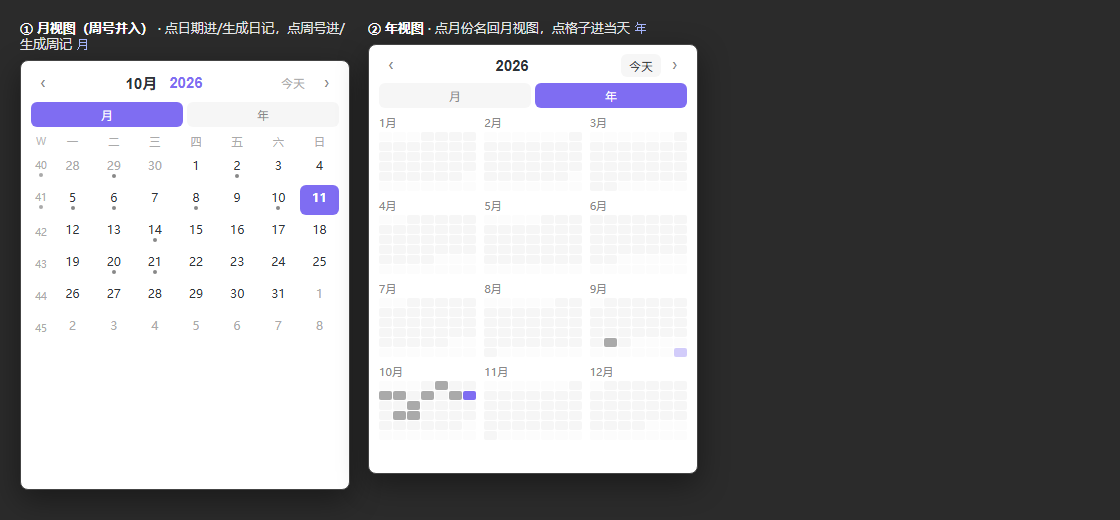
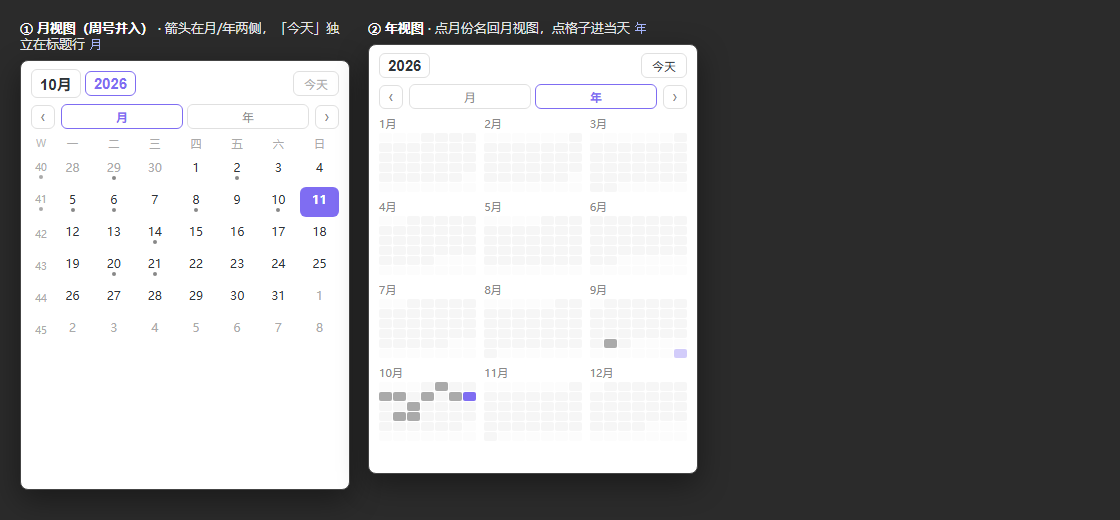
Simple Calendar v1.2.0: 箭头移到月/年两侧、「今天」独立在标题行、按钮统一只留边框不要底色

diff --git a/styles.css b/styles.css
@@ -1,5 +1,6 @@
 /* Simple Calendar — 轻量日历样式
-   全部使用 Obsidian 主题变量，自动适配亮/暗主题 */
+   全部使用 Obsidian 主题变量，自动适配亮/暗主题
+   按钮统一"只留边框、不要底色"；当前项用边框色与文字色区分 */
 
 .simple-calendar-container {
   padding: 0;
@@ -19,10 +20,47 @@
   margin-bottom: 8px;
 }
 
+/* 第一行：标题 + 今天 */
+.sc-title-row {
+  display: flex;
+  align-items: center;
+  gap: 6px;
+}
+
+.sc-titles {
+  display: flex;
+  flex: 1 1 auto;
+  align-items: center;
+  gap: 4px;
+  min-width: 0;
+}
+
+/* 第二行：‹ 月 年 › */
 .sc-nav-row {
   display: flex;
   align-items: center;
-  gap: 2px;
+  gap: 6px;
+}
+
+/* 通用按钮底色清空，只留边框 */
+.sc-nav,
+.sc-title,
+.sc-today,
+.sc-tab {
+  background: transparent;
+  box-shadow: none;
+  border: 1px solid var(--background-modifier-border);
+  border-radius: 6px;
+  color: var(--text-normal);
+  cursor: pointer;
+}
+
+.sc-nav:hover,
+.sc-title:hover,
+.sc-today:hover,
+.sc-tab:hover {
+  border-color: var(--text-muted);
+  background: transparent;
 }
 
 .sc-nav {
@@ -30,76 +68,45 @@
   width: 24px;
   height: 24px;
   padding: 0;
-  font-size: 16px;
+  font-size: 15px;
   line-height: 1;
   color: var(--text-muted);
-  background: transparent;
-  border: none;
-  border-radius: 6px;
-  box-shadow: none;
-  cursor: pointer;
-}
-
-.sc-nav:hover {
-  color: var(--text-normal);
-  background: var(--background-modifier-hover);
-}
-
-.sc-titles {
-  display: flex;
-  flex: 1 1 auto;
-  align-items: center;
-  justify-content: center;
-  gap: 4px;
-  min-width: 0;
 }
 
 .sc-title {
-  padding: 3px 4px;
+  padding: 3px 8px;
   font-size: 15px;
   font-weight: 700;
   white-space: nowrap;
-  color: var(--text-normal);
-  background: transparent;
-  border: none;
-  border-radius: 6px;
-  box-shadow: none;
-  cursor: pointer;
 }
 
-.sc-title:hover {
-  background: var(--background-modifier-hover);
-}
-
-/* 年份段用强调色，和原插件一样一眼能看出"这是可以点进年视图的" */
+/* 年份段用强调色，一眼看出可以点进年视图 */
 .sc-title-year {
   color: var(--interactive-accent);
+  border-color: var(--interactive-accent);
+}
+
+.sc-title-year:hover {
+  border-color: var(--interactive-accent);
 }
 
 .sc-today {
   flex: 0 0 auto;
-  padding: 3px 8px;
+  margin-left: auto;
+  padding: 3px 10px;
   font-size: 12px;
-  color: var(--text-normal);
-  background: var(--background-secondary);
-  border: none;
-  border-radius: 6px;
-  box-shadow: none;
-  cursor: pointer;
-}
-
-.sc-today:hover {
-  background: var(--background-modifier-hover);
 }
 
 .sc-today.is-off {
   color: var(--text-faint);
-  background: transparent;
+  border-color: var(--background-modifier-border);
 }
 
 .sc-tabs {
   display: flex;
+  flex: 1 1 auto;
   gap: 4px;
+  min-width: 0;
 }
 
 .sc-tab {
@@ -107,20 +114,12 @@
   padding: 3px 0;
   font-size: 12px;
   color: var(--text-muted);
-  background: var(--background-secondary);
-  border: 1px solid transparent;
-  border-radius: 6px;
-  box-shadow: none;
-  cursor: pointer;
-}
-
-.sc-tab:hover {
-  background: var(--background-modifier-hover);
 }
 
 .sc-tab.is-active {
-  color: var(--text-on-accent);
-  background: var(--interactive-accent);
+  color: var(--interactive-accent);
+  border-color: var(--interactive-accent);
+  font-weight: 600;
 }
 
 /* ---------- 月视图（含周号列） ---------- */

diff --git a/tools/preview.html b/tools/preview.html
@@ -36,22 +36,24 @@
 <div class="cols">
 
   <div class="col">
-    <div class="label"><b>① 月视图（周号并入）</b> · 点日期进/生成日记，点周号进/生成周记 <code>月</code></div>
+    <div class="label"><b>① 月视图（周号并入）</b> · 箭头在月/年两侧，「今天」独立在标题行 <code>月</code></div>
     <div class="frame">
       <div class="simple-calendar">
         <div class="sc-header">
-          <div class="sc-nav-row">
-            <button class="sc-nav">‹</button>
+          <div class="sc-title-row">
             <div class="sc-titles">
               <button class="sc-title">10月</button>
               <button class="sc-title sc-title-year">2026</button>
             </div>
             <button class="sc-today is-off">今天</button>
-            <button class="sc-nav">›</button>
           </div>
-          <div class="sc-tabs">
-            <button class="sc-tab is-active">月</button>
-            <button class="sc-tab">年</button>
+          <div class="sc-nav-row">
+            <button class="sc-nav">‹</button>
+            <div class="sc-tabs">
+              <button class="sc-tab is-active">月</button>
+              <button class="sc-tab">年</button>
+            </div>
+            <button class="sc-nav">›</button>
           </div>
         </div>
         <div class="sc-body"><div class="sc-grid sc-grid-month has-week" id="month-grid"></div></div>
@@ -64,15 +66,17 @@
     <div class="frame">
       <div class="simple-calendar">
         <div class="sc-header">
-          <div class="sc-nav-row">
-            <button class="sc-nav">‹</button>
+          <div class="sc-title-row">
             <div class="sc-titles"><button class="sc-title">2026</button></div>
             <button class="sc-today">今天</button>
-            <button class="sc-nav">›</button>
           </div>
-          <div class="sc-tabs">
-            <button class="sc-tab">月</button>
-            <button class="sc-tab is-active">年</button>
+          <div class="sc-nav-row">
+            <button class="sc-nav">‹</button>
+            <div class="sc-tabs">
+              <button class="sc-tab">月</button>
+              <button class="sc-tab is-active">年</button>
+            </div>
+            <button class="sc-nav">›</button>
           </div>
         </div>
         <div class="sc-body"><div class="sc-year" id="year-grid"></div></div>
@@ -121,10 +125,9 @@
   }
 
   const HAVE = new Set(['2026-09-29','2026-10-02','2026-10-05','2026-10-06','2026-10-08','2026-10-10','2026-10-14','2026-10-20','2026-10-21']);
-  const HAVE_WEEK = new Set(['2026-10-05','2026-09-28']); // 那几周已有周记
+  const HAVE_WEEK = new Set(['2026-10-05','2026-09-28']);
   const TODAY = '2026-10-11';
 
-  // ① 月视图 + 周号列
   const mg = document.getElementById('month-grid');
   const wHead = document.createElement('div');
   wHead.className = 'sc-dow sc-dow-week';
@@ -158,7 +161,6 @@
     }
   }
 
-  // ② 年视图
   const yg = document.getElementById('year-grid');
   for (let m = 0; m < 12; m += 1) {
     const box = document.createElement('div');

diff --git a/main.js b/main.js
@@ -553,33 +553,36 @@ class CalendarView extends ItemView {
 
   buildHeader(ws, today) {
     const head = mk('div', 'sc-header');
-    const row = mk('div', 'sc-nav-row');
-    row.appendChild(mk('button', 'sc-nav', '‹', { 'data-nav': 'prev', title: '上一周期' }));
 
+    /* 第一行：标题（月 / 年两段）+ 独立的「今天」 */
+    const titleRow = mk('div', 'sc-title-row');
     const titles = mk('div', 'sc-titles');
     if (this.view === 'year') {
-      // 年视图：年份不可再点（已在年视图），点它回月视图
+      // 年视图：年份已在年视图，点它回月视图
       titles.appendChild(mk('button', 'sc-title', yearLabel(this.cursor), { 'data-view': 'month', title: '回到月视图' }));
     } else {
       titles.appendChild(mk('button', 'sc-title', monthLabel(this.cursor), { 'data-goto-monthview': '1', title: '月视图' }));
       titles.appendChild(mk('button', 'sc-title sc-title-year', yearLabel(this.cursor), { 'data-view': 'year', title: '年视图' }));
     }
-    row.appendChild(titles);
-
+    titleRow.appendChild(titles);
     const isToday = sameDay(this.cursor, today) && this.view === 'month';
-    row.appendChild(mk('button', `sc-today${isToday ? ' is-off' : ''}`, '今天', { 'data-nav': 'today', title: '回到今天' }));
-    row.appendChild(mk('button', 'sc-nav', '›', { 'data-nav': 'next', title: '下一周期' }));
-    head.appendChild(row);
+    titleRow.appendChild(mk('button', `sc-today${isToday ? ' is-off' : ''}`, '今天', { 'data-nav': 'today', title: '回到今天' }));
+    head.appendChild(titleRow);
 
+    /* 第二行：箭头在两侧，月 / 年 在中间 */
+    const navRow = mk('div', 'sc-nav-row');
+    navRow.appendChild(mk('button', 'sc-nav', '‹', { 'data-nav': 'prev', title: '上一周期' }));
     const tabs = mk('div', 'sc-tabs');
     for (const v of VIEWS) {
       const label = v === 'month' ? '月' : '年';
       tabs.appendChild(mk('button', `sc-tab${this.view === v ? ' is-active' : ''}`, label, { 'data-view': v, title: `${label}视图` }));
     }
-    head.appendChild(tabs);
+    navRow.appendChild(tabs);
+    navRow.appendChild(mk('button', 'sc-nav', '›', { 'data-nav': 'next', title: '下一周期' }));
+    head.appendChild(navRow);
+
     return head;
   }
-
   /* ---------------- 月视图（带周号列，周视图已并入） ---------------- */
 
   buildMonth(body, ws, today) {
